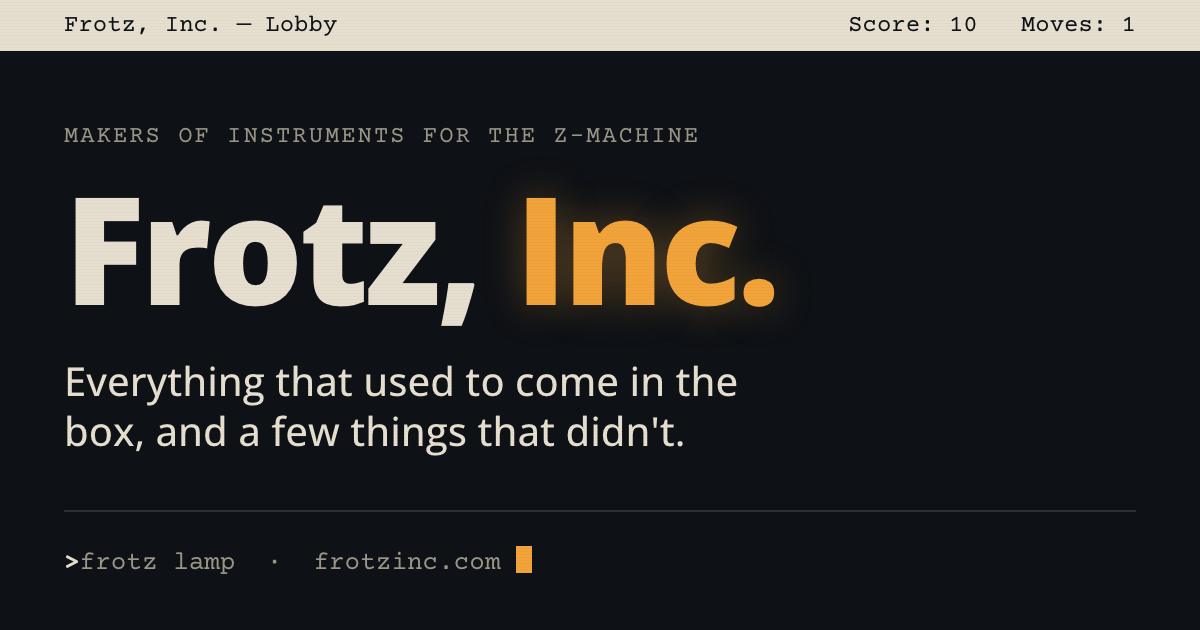
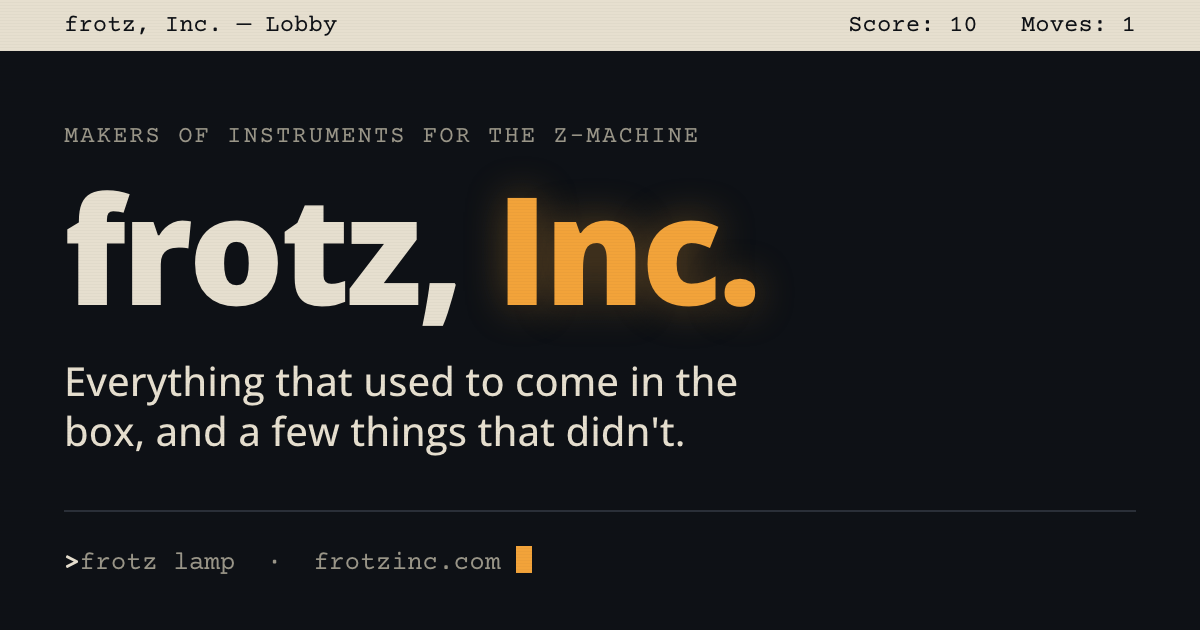
Always lowercase 'frotz'
frotz, Inc., frotzsmith, frotzlens throughout the page, 404, JSON-LD,
llms.txt, README and comments; og-image re-rendered.

Changed region(s): [[0.0308, 0.3016, 0.6475, 0.5127]]

diff --git a/public/index.html b/public/index.html
@@ -3,7 +3,7 @@
 <head>
 <meta charset="utf-8">
 <meta name="viewport" content="width=device-width,initial-scale=1,viewport-fit=cover">
-<title>Frotz, Inc. · Instruments for the Z-machine</title>
+<title>frotz, Inc. · Instruments for the Z-machine</title>
 <meta name="description" content="Browser tools for Infocom-style text adventures, the 1980s games you play by typing: write, build, inspect, and ship Z-machine interactive fiction. Open source.">
 <link rel="canonical" href="https://frotzinc.com/">
 <meta name="author" content="Chris Schweda">
@@ -15,14 +15,14 @@
 <link rel="apple-touch-icon" href="/apple-touch-icon.png">
 
 <meta property="og:type" content="website">
-<meta property="og:site_name" content="Frotz, Inc.">
-<meta property="og:title" content="Frotz, Inc. · Instruments for the Z-machine">
+<meta property="og:site_name" content="frotz, Inc.">
+<meta property="og:title" content="frotz, Inc. · Instruments for the Z-machine">
 <meta property="og:description" content="Everything that used to come in the box, and a few things that didn't. Open-source browser tools for Infocom-style text adventures and the Z-machine.">
 <meta property="og:url" content="https://frotzinc.com/">
 <meta property="og:image" content="https://frotzinc.com/og-image.png">
 <meta property="og:image:width" content="1200">
 <meta property="og:image:height" content="630">
-<meta property="og:image:alt" content="Frotz, Inc. wordmark in amber on a dark terminal, with the line: Makers of instruments for the Z-machine">
+<meta property="og:image:alt" content="frotz, Inc. wordmark in amber on a dark terminal, with the line: Makers of instruments for the Z-machine">
 <meta name="twitter:card" content="summary_large_image">
 
 <link rel="preload" href="/fonts/open-sans-latin-var.woff2" as="font" type="font/woff2" crossorigin>
@@ -36,7 +36,7 @@
    "@type": "WebSite",
    "@id": "https://frotzinc.com/#website",
    "url": "https://frotzinc.com/",
-   "name": "Frotz, Inc.",
+   "name": "frotz, Inc.",
    "inLanguage": "en",
    "publisher": {
     "@id": "https://frotzinc.com/#org"
@@ -46,7 +46,7 @@
    "@type": "WebPage",
    "@id": "https://frotzinc.com/#webpage",
    "url": "https://frotzinc.com/",
-   "name": "Frotz, Inc. · Instruments for the Z-machine",
+   "name": "frotz, Inc. · Instruments for the Z-machine",
    "description": "Browser tools for Infocom-style text adventures, the 1980s games you play by typing: write, build, inspect, and ship Z-machine interactive fiction. Open source.",
    "inLanguage": "en",
    "isPartOf": {
@@ -82,7 +82,7 @@
   {
    "@type": "Organization",
    "@id": "https://frotzinc.com/#org",
-   "name": "Frotz, Inc.",
+   "name": "frotz, Inc.",
    "url": "https://frotzinc.com/",
    "logo": {
     "@type": "ImageObject",
@@ -108,7 +108,7 @@
      "position": 1,
      "item": {
       "@type": "SoftwareApplication",
-      "name": "Frotzsmith",
+      "name": "frotzsmith",
       "license": "https://spdx.org/licenses/GPL-3.0-or-later.html",
       "url": "https://frotzsmith.frotzinc.com",
       "applicationCategory": "DeveloperApplication",
@@ -125,7 +125,7 @@
      "position": 2,
      "item": {
       "@type": "SoftwareApplication",
-      "name": "Frotzlens",
+      "name": "frotzlens",
       "license": "https://spdx.org/licenses/GPL-3.0-or-later.html",
       "url": "https://frotzlens.frotzinc.com",
       "image": "https://frotzinc.com/images/frotzlens-card-1200.webp",
@@ -173,7 +173,7 @@
 
 <a class="skip" href="#products">Skip to catalog</a>
 <div class="status" role="group" aria-label="Status line">
-  <span aria-hidden="true">Frotz, Inc. — Lobby</span>
+  <span aria-hidden="true">frotz, Inc. — Lobby</span>
   <span class="right">
     <span class="score" aria-hidden="true">Score: <b id="score">0</b></span>
     <span class="score" aria-hidden="true">Moves: <b id="moves">0</b></span>
@@ -184,10 +184,10 @@
 <main class="wrap">
   <header class="hero">
     <p class="eyebrow">Makers of instruments for the Z-machine</p>
-    <h1 class="wordmark">Frotz, <em>Inc.</em></h1>
+    <h1 class="wordmark">frotz, <em>Inc.</em></h1>
     <p class="tagline">Everything that used to come in the box, and a few things that didn't.</p>
     <p class="lede">In the early 1980s, a company in Cambridge, Massachusetts called Infocom sold computer games made entirely of words. There were no pictures. You typed what you wanted to do, <kbd>open mailbox</kbd>, <kbd>go north</kbd>, <kbd>light lamp</kbd>, and the game wrote back, like a novel that listened. <i>Zork</i>, <i>Enchanter</i>, <i>Planetfall</i>, <i>The Hitchhiker's Guide to the Galaxy</i>: they came in boxes full of maps, letters, and odd little objects, and they were played by hundreds of thousands of people whose computers could barely draw a straight line but whose imaginations had no such limit.</p>
-    <p class="lede">The games outlived the company. The interactive fiction community has kept them playable for forty years and keeps writing new ones. Frotz, Inc. makes tools for that work: browser-native instruments for writing, building, inspecting, and shipping games for the Z-machine, Infocom's virtual machine, from brand-new Inform 6 and ZIL games to the original story files. Open source. No installs. No cloud.</p>
+    <p class="lede">The games outlived the company. The interactive fiction community has kept them playable for forty years and keeps writing new ones. frotz, Inc. makes tools for that work: browser-native instruments for writing, building, inspecting, and shipping games for the Z-machine, Infocom's virtual machine, from brand-new Inform 6 and ZIL games to the original story files. Open source. No installs. No cloud.</p>
 
     <figure class="transcript-wrap"><figcaption class="sr-only">Sample transcript</figcaption><pre class="transcript"><span class="cmd">&gt;frotz lamp</span>
 The brass lantern begins to glow, casting a <span class="lit">warm, steady light</span>.
@@ -211,10 +211,10 @@ You are carrying:
         <img class="thumb" src="/images/frotzsmith-card-1200.webp"
              srcset="/images/frotzsmith-card-480.webp 480w, /images/frotzsmith-card-1200.webp 1200w"
              sizes="(max-width: 720px) calc(100vw - 32px), 220px"
-             alt="Frotzsmith social card: hammer icon, the name, and the tagline A browser-based Interactive Fiction IDE"
+             alt="frotzsmith social card: hammer icon, the name, and the tagline A browser-based Interactive Fiction IDE"
              width="1200" height="630" loading="lazy" decoding="async">
         <span class="sku">FI-001</span>
-        <h3 class="name"><a href="https://frotzsmith.frotzinc.com" target="_blank" rel="noopener">Frotzsmith</a></h3>
+        <h3 class="name"><a href="https://frotzsmith.frotzinc.com" target="_blank" rel="noopener">frotzsmith</a></h3>
         <span class="badge live">Now available</span>
         <p class="desc">A browser IDE for Inform 6 and ZIL. Compiles to Z-machine and Glulx with the real compilers running in WebAssembly, Standard Library and PunyInform profiles, and a skein test runner. The workbench everything else plugs into.</p>
       </li>
@@ -222,10 +222,10 @@ You are carrying:
         <img class="thumb" src="/images/frotzlens-card-1200.webp"
              srcset="/images/frotzlens-card-480.webp 480w, /images/frotzlens-card-1200.webp 1200w"
              sizes="(max-width: 720px) calc(100vw - 32px), 220px"
-             alt="Frotzlens social card: an amber magnifying glass beside the words See inside a Z-machine story file, over a faded disassembly listing"
+             alt="frotzlens social card: an amber magnifying glass beside the words See inside a Z-machine story file, over a faded disassembly listing"
              width="1200" height="630" loading="lazy" decoding="async">
         <span class="sku">FI-002</span>
-        <h3 class="name"><a href="https://frotzlens.frotzinc.com" target="_blank" rel="noopener">Frotzlens</a></h3>
+        <h3 class="name"><a href="https://frotzlens.frotzinc.com" target="_blank" rel="noopener">frotzlens</a></h3>
         <span class="badge live">Now available</span>
         <p class="desc">Drop in a story file and see what's inside: header, object tree, dictionary, grammar, routines as cross-referenced disassembly, strings. Fully symbolic when given Inform's debug output. The successor to txd and infodump, in a tab.</p>
       </li>
@@ -245,7 +245,7 @@ You are carrying:
         <span class="sku">FI-004</span>
         <h3 class="name">frotztrace</h3>
         <span class="badge dev">In development</span>
-        <p class="desc">A Z-machine debugger. Step through Z-code live, set breakpoints on routines and property changes, watch globals, inspect the object tree mid-game. Source-level stepping inside Frotzsmith, bytecode-level everywhere else.</p>
+        <p class="desc">A Z-machine debugger. Step through Z-code live, set breakpoints on routines and property changes, watch globals, inspect the object tree mid-game. Source-level stepping inside frotzsmith, bytecode-level everywhere else.</p>
       </li>
       <li class="item">
         <div class="thumb thumb-empty" aria-hidden="true"><span>frotzpack</span><span class="thumb-note">image forthcoming</span></div>
@@ -259,7 +259,7 @@ You are carrying:
         <span class="sku">FI-006</span>
         <h3 class="name">frotzlint</h3>
         <span class="badge plan">Planned</span>
-        <p class="desc">A formatter and linter for Inform 6 source. Consistent style, unused-object and unreachable-routine warnings, DM4 conventions. Runs from npx or on save inside Frotzsmith.</p>
+        <p class="desc">A formatter and linter for Inform 6 source. Consistent style, unused-object and unreachable-routine warnings, DM4 conventions. Runs from npx or on save inside frotzsmith.</p>
       </li>
       <li class="item">
         <div class="thumb thumb-empty" aria-hidden="true"><span>frotzcheck</span><span class="thumb-note">image forthcoming</span></div>
@@ -287,21 +287,21 @@ You are carrying:
       <dd>The game itself: a compact file of Z-machine code, like <code>lantern.z5</code>, that any Z-machine interpreter can play. The original Infocom games are story files, and so is anything written in Inform today.</dd>
       <dt>Feelies</dt>
       <dd>The physical extras in an Infocom box: a police dossier, a glow-in-the-dark stone, a pair of cardboard Peril Sensitive Sunglasses, a bag of pocket fluff. Part souvenir, part copy protection. See the tagline above.</dd>
-      <dt>Frotz</dt>
+      <dt>frotz</dt>
       <dd>A spell from <i>Enchanter</i> (1983) that makes an object give off light. It is also the name of a much-loved Z-machine interpreter by other people, which we admire and are not.</dd>
       <dt>West of House</dt>
       <dd>Where <i>Zork</i> begins: an open field beside a white house with a boarded front door, and a small mailbox. Generations of players have stood here. So, now, have you.</dd>
       <dt>Grue</dt>
       <dd>What eats you if you wander into the dark without a light. The reason a spell like <b>frotz</b> is worth knowing.</dd>
       <dt>ZIL and Inform</dt>
-      <dd>ZIL is the language Infocom wrote its games in. Inform, created by Graham Nelson in 1993, is the one the community built to write new ones. Both compile to the Z-machine, and Frotzsmith speaks both.</dd>
+      <dd>ZIL is the language Infocom wrote its games in. Inform, created by Graham Nelson in 1993, is the one the community built to write new ones. Both compile to the Z-machine, and frotzsmith speaks both.</dd>
     </dl>
   </section>
 
   <section class="section about" aria-labelledby="company">
     <div>
       <div class="section-head"><h2 id="company">The company</h2></div>
-      <p>Frotz, Inc. is a software company that does not exist, publishing tools that do. It is the umbrella for a family of open-source instruments for the Z-machine, the virtual machine that ran the great text adventures of the early 1980s and that the interactive fiction community has kept alive ever since.</p>
+      <p>frotz, Inc. is a software company that does not exist, publishing tools that do. It is the umbrella for a family of open-source instruments for the Z-machine, the virtual machine that ran the great text adventures of the early 1980s and that the interactive fiction community has kept alive ever since.</p>
       <p>Every product runs in the browser, works offline, and keeps your files on your machine. Shared code is published under the <code>@frotzinc</code> scope on npm; the tools you type are published under their own names.</p>
       <p>The name comes from a spell. In Infocom's <i>Enchanter</i> (1983), <b>frotz</b> causes an object to give off light, which is what these tools are for.</p>
     </div>
@@ -321,11 +321,11 @@ You are carrying:
     <div class="links">
       <a href="https://github.com/cschweda" target="_blank" rel="noopener">GitHub</a>
       <a href="https://www.npmjs.com/org/frotzinc" target="_blank" rel="noopener">npm</a>
-      <a href="https://frotzsmith.frotzinc.com" target="_blank" rel="noopener">Frotzsmith</a>
-      <a href="https://frotzlens.frotzinc.com" target="_blank" rel="noopener">Frotzlens</a>
+      <a href="https://frotzsmith.frotzinc.com" target="_blank" rel="noopener">frotzsmith</a>
+      <a href="https://frotzlens.frotzinc.com" target="_blank" rel="noopener">frotzlens</a>
       <a href="https://frotzplay.frotzinc.com" target="_blank" rel="noopener">frotzplay</a>
     </div>
-    <div>Frotz, Inc. is a fiction. It is not affiliated with Infocom, Activision, or the authors of the Frotz interpreter. Zork, Enchanter, and other Infocom titles are trademarks of their respective owners.</div>
+    <div>frotz, Inc. is a fiction. It is not affiliated with Infocom, Activision, or the authors of the frotz interpreter. Zork, Enchanter, and other Infocom titles are trademarks of their respective owners.</div>
   </footer>
 </main>
 

diff --git a/public/404.html b/public/404.html
@@ -3,7 +3,7 @@
 <head>
 <meta charset="utf-8">
 <meta name="viewport" content="width=device-width,initial-scale=1,viewport-fit=cover">
-<title>You can't go that way · Frotz, Inc.</title>
+<title>You can't go that way · frotz, Inc.</title>
 <meta name="robots" content="noindex">
 <meta name="theme-color" content="#0e1116">
 <meta name="color-scheme" content="dark light">
@@ -24,7 +24,7 @@
 
 <a class="skip" href="/">Back to the lobby</a>
 <div class="status" role="group" aria-label="Status line">
-  <span aria-hidden="true">Frotz, Inc. — Dark Passage</span>
+  <span aria-hidden="true">frotz, Inc. — Dark Passage</span>
   <span class="right">
     <span class="score" aria-hidden="true">Score: <b id="score">0</b></span>
     <span class="score" aria-hidden="true">Moves: <b id="moves">1</b></span>
@@ -52,11 +52,11 @@ It is <span class="lit">dark</span> here. The only exit leads back to the lobby.
   <footer>
     <div class="links">
       <a href="/">Home</a>
-      <a href="https://frotzsmith.frotzinc.com">Frotzsmith</a>
-      <a href="https://frotzlens.frotzinc.com">Frotzlens</a>
+      <a href="https://frotzsmith.frotzinc.com">frotzsmith</a>
+      <a href="https://frotzlens.frotzinc.com">frotzlens</a>
       <a href="https://frotzplay.frotzinc.com">frotzplay</a>
     </div>
-    <div>Frotz, Inc. is a fiction.</div>
+    <div>frotz, Inc. is a fiction.</div>
   </footer>
 </main>
 

diff --git a/tools/og-image.html b/tools/og-image.html
@@ -32,10 +32,10 @@
 </style>
 </head>
 <body>
-  <div class="status"><span>Frotz, Inc. — Lobby</span><span>Score: 10&nbsp;&nbsp;&nbsp;Moves: 1</span></div>
+  <div class="status"><span>frotz, Inc. — Lobby</span><span>Score: 10&nbsp;&nbsp;&nbsp;Moves: 1</span></div>
   <div class="main">
     <p class="eyebrow">Makers of instruments for the Z-machine</p>
-    <h1>Frotz, <em>Inc.</em></h1>
+    <h1>frotz, <em>Inc.</em></h1>
     <p class="tag">Everything that used to come in the box, and a few things that didn't.</p>
   </div>
   <div class="rule"></div>

diff --git a/public/site.js b/public/site.js
@@ -1,4 +1,4 @@
-/* Frotz, Inc. site script. Loaded synchronously in <head> so the saved theme applies before
+/* frotz, Inc. site script. Loaded synchronously in <head> so the saved theme applies before
    first paint (no dark-to-light flash); everything that touches the page waits for the DOM. */
 (function () {
   var root = document.documentElement;

diff --git a/README.md b/README.md
@@ -1,8 +1,8 @@
-# Frotz, Inc.
+# frotz, Inc.
 
-The landing page for Frotz, Inc., the umbrella for a family of open-source, browser-native tools
-for Z-machine interactive fiction: [Frotzsmith](https://frotzsmith.frotzinc.com),
-[Frotzlens](https://frotzlens.frotzinc.com),
+The landing page for frotz, Inc., the umbrella for a family of open-source, browser-native tools
+for Z-machine interactive fiction: [frotzsmith](https://frotzsmith.frotzinc.com),
+[frotzlens](https://frotzlens.frotzinc.com),
 [frotzplay](https://frotzplay.frotzinc.com), and the tools still to come.
 
 Live at **https://frotzinc.com**.
